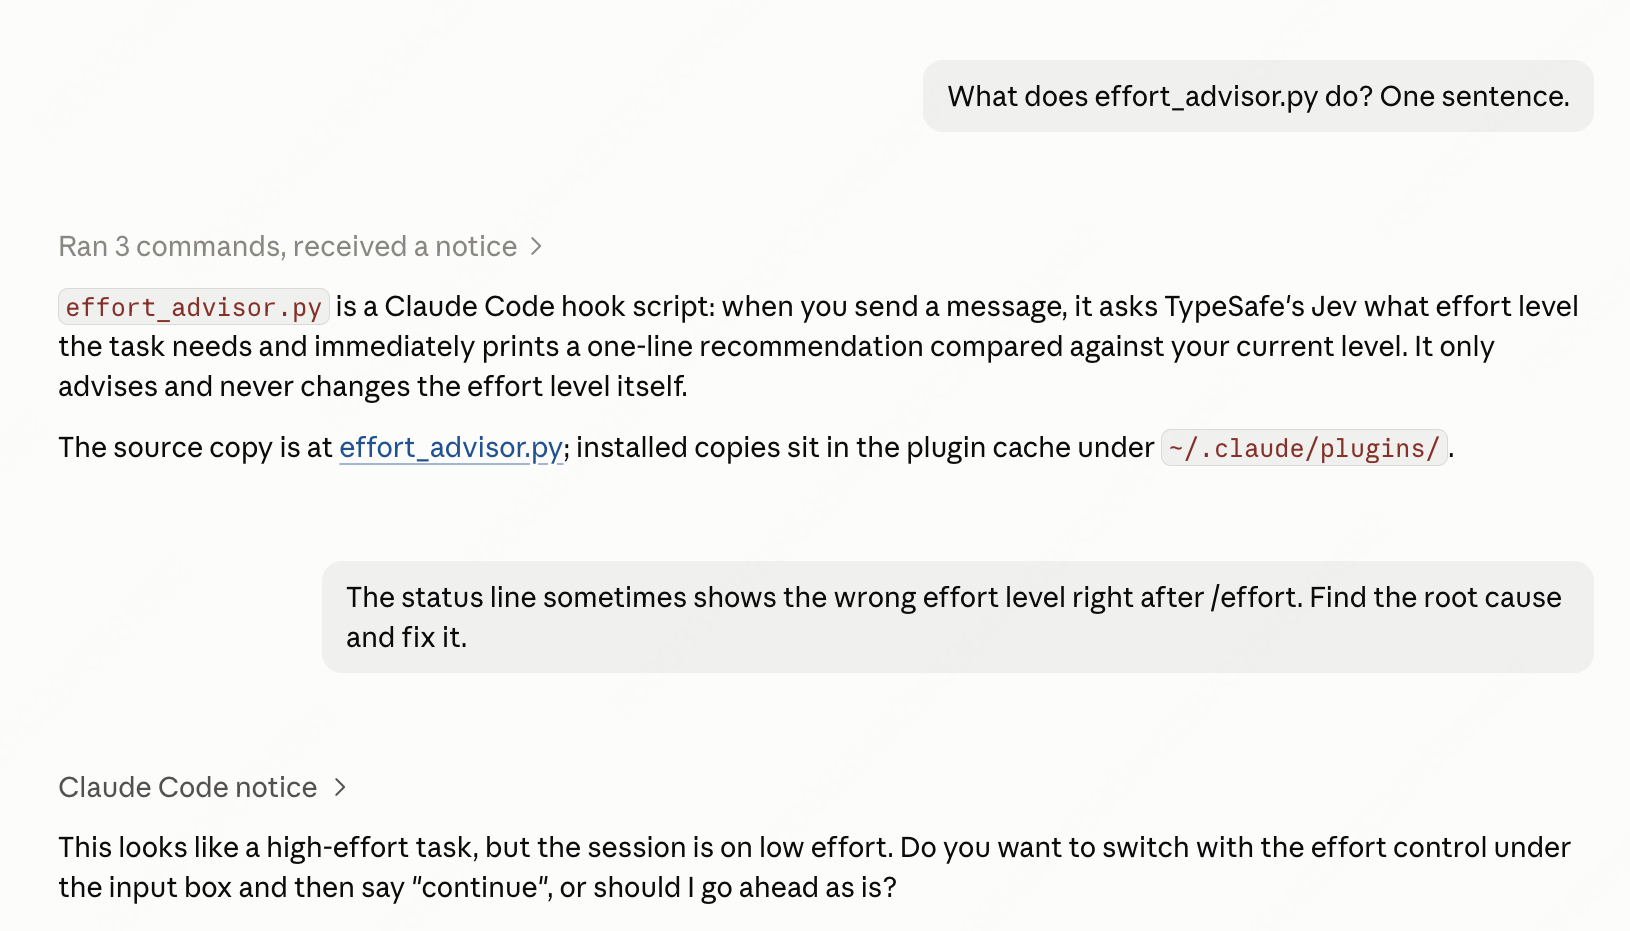
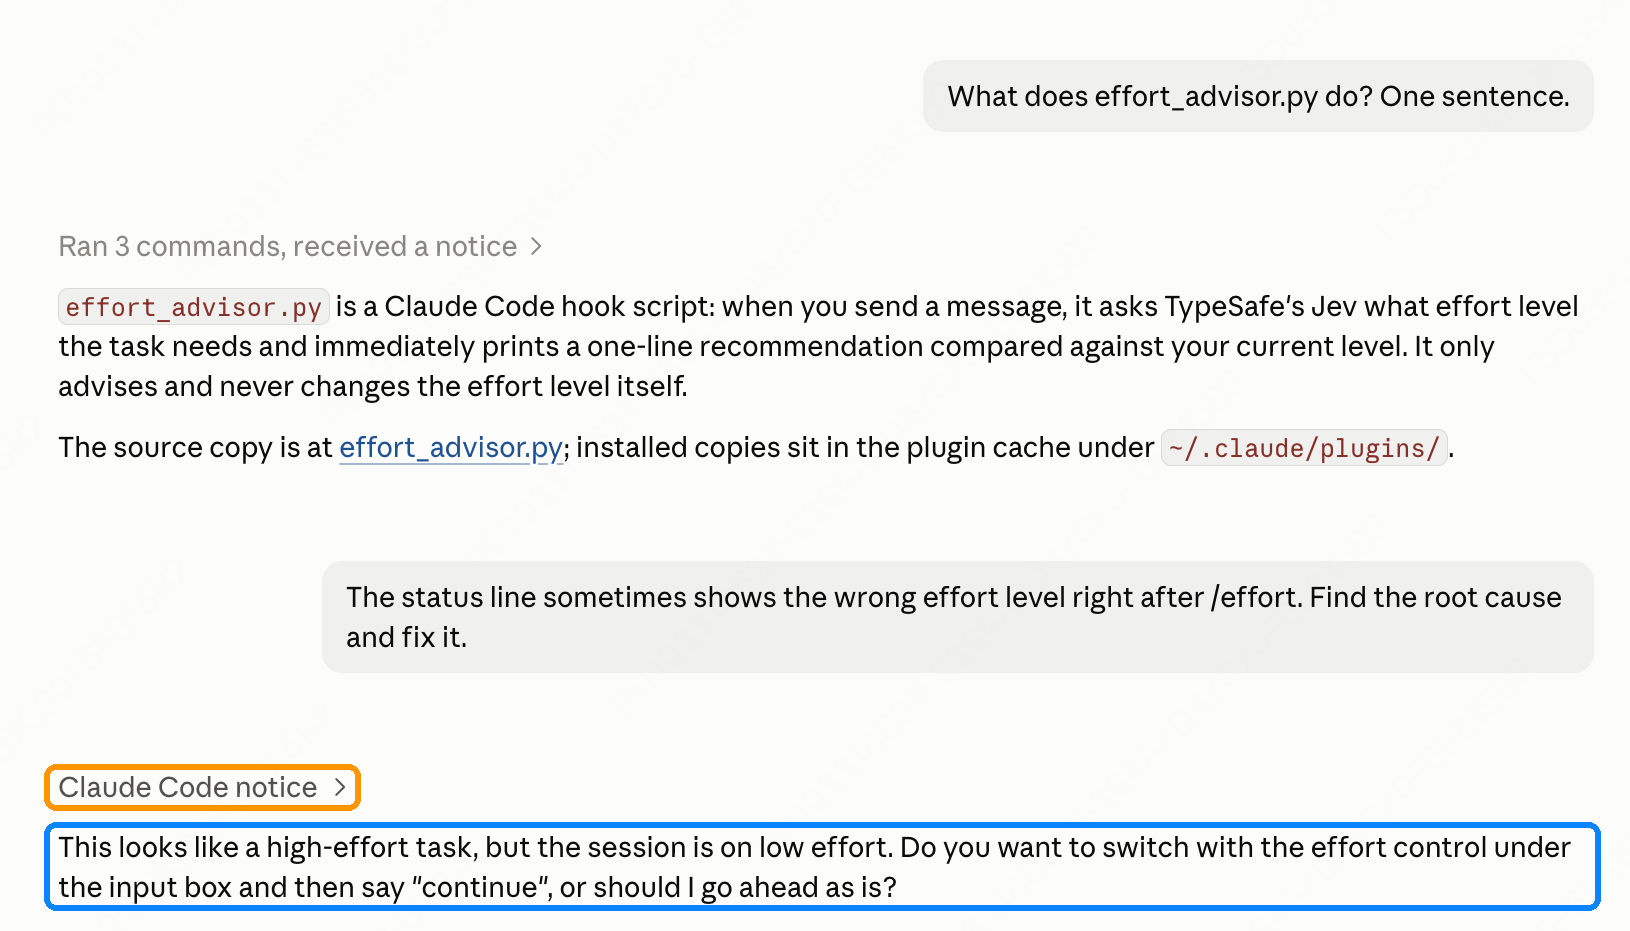
README: highlight the effort line and Claude's question in screenshots

Changed region(s): [[0.0307, 0.8099, 0.9816, 0.9033], [0.0307, 0.9656, 0.9816, 0.9968], [0.0, 0.9033, 0.0307, 0.9656]]

diff --git a/README.md b/README.md
@@ -2,11 +2,11 @@
 
 **Know which `/effort` level each message needs, the moment you send it.** A Claude Code plugin: every message you send is read by [TypeSafe](https://typesafe.ai)'s Jev model, which judges how much effort the task deserves. You get a one-line verdict before Claude starts working, so you can switch in time.
 
-**Terminal:** on `low`, a quick question gets `○ low fits this`; a bug hunt gets `⬆ needs high`, and with `ask_first` on, Claude asks before starting.
+**Terminal:** on `low`, a quick question gets `○ low fits this`; a bug hunt gets `⬆ needs high`, and with `ask_first` on, Claude asks before starting. Orange: the plugin's line. Blue: Claude checking with you.
 
 <p align="center"><img src="assets/terminal.png" width="820" alt="Claude Code in the terminal: the effort line under each message, and Claude asking whether to switch to high"></p>
 
-**Desktop app:** same session flow; the line is in the "Claude Code notice", and Claude's question points you to the effort control under the input box.
+**Desktop app:** same flow. The line sits in the "Claude Code notice" (orange, click to expand); Claude's question (blue) points you to the effort control under the input box.
 
 <p align="center"><img src="assets/desktop.png" width="720" alt="Claude desktop app: Claude asks whether to switch to high effort before starting a bug fix"></p>
 
